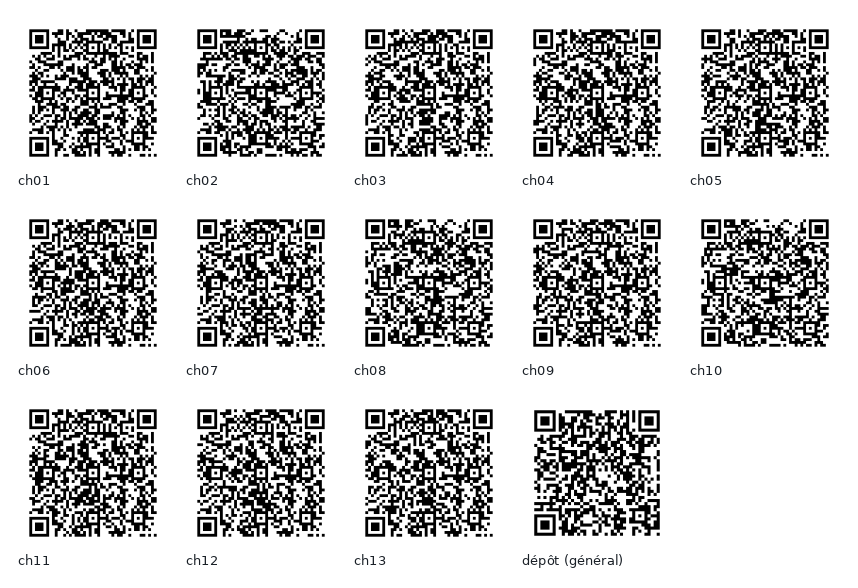
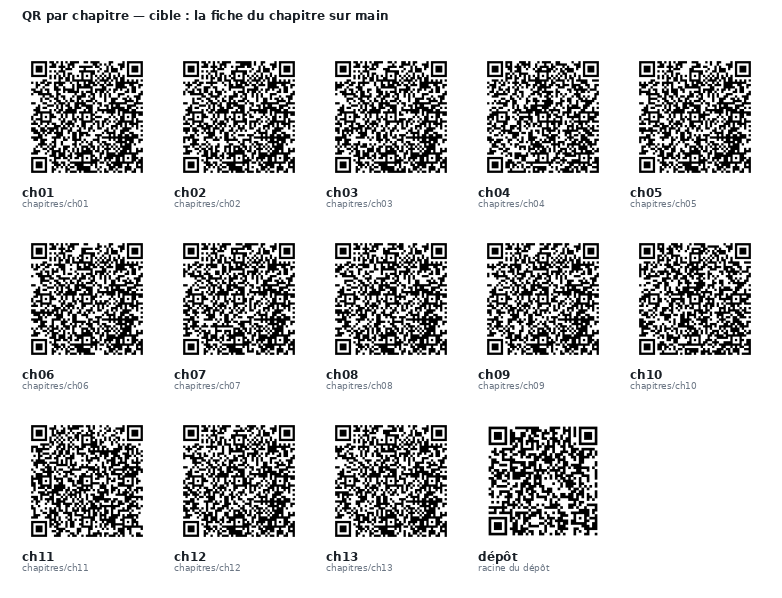
fixes

diff --git a/scripts/qr-chapitres.py b/scripts/qr-chapitres.py
@@ -71,6 +71,10 @@ def main() -> int:
     p.add_argument("--sortie", default="qr", help="repertoire de sortie")
     p.add_argument("--taille-mm", type=float, default=22.0,
                    help="taille imprimee, en millimetres (22 mm recommande)")
+    p.add_argument("--branche-index", default="main",
+                   help="branche portant les fiches de chapitre")
+    p.add_argument("--vers-branche", action="store_true",
+                   help="viser l arborescence de la branche plutot que la fiche")
     args = p.parse_args()
 
     base = f"https://github.com/{args.compte}/{args.depot}"
@@ -84,7 +88,11 @@ def main() -> int:
 
     lignes = ["| Ch. | Titre | Branche | QR |", "|---|---|---|---|"]
     for branche, titre in CHAPITRES.items():
-        url = f"{base}/tree/{branche}"
+        # La fiche du chapitre, et non l arborescence brute : elle indique ce que
+        # le chapitre ajoute, les commandes cles et les points de controle, et
+        # elle renvoie vers la branche. C est la bonne porte d entree.
+        url = (f"{base}/tree/{branche}" if args.vers_branche
+               else f"{base}/tree/{args.branche_index}/chapitres/{branche}")
         version = generer(url, sortie / f"{branche}.svg", args.taille_mm)
         print(f"{branche + '.svg':14} {version:>7}  {url}")
         lignes.append(f"| {branche[2:]} | {titre} | `{branche}` | `qr/{branche}.svg` |")
@@ -92,9 +100,11 @@ def main() -> int:
     (sortie / "INDEX.md").write_text(
         "# QR codes par chapitre\n\n"
         f"Depot : {base}\n\n"
-        "Chaque QR code pointe vers la branche du chapitre : le lecteur arrive\n"
-        "directement sur l'etat d'Escale a la fin de ce chapitre, sans avoir\n"
-        "besoin des precedents.\n\n"
+        "Chaque QR code pointe vers la **fiche du chapitre** : ce que le chapitre\n"
+        "ajoute au depot, les commandes cles, les points de controle, et un lien\n"
+        "vers la branche correspondante. Le lecteur arrive oriente, et non devant\n"
+        "une arborescence de fichiers.\n\n"
+        "Option `--vers-branche` pour viser directement l arborescence.\n\n"
         "**A placer en ouverture de chapitre**, en marge exterieure, a 22 mm de\n"
         "cote. Format SVG vectoriel : ne jamais convertir en JPEG.\n\n"
         + "\n".join(lignes) + "\n"

diff --git a/chapitres/ch01/README.md b/chapitres/ch01/README.md
@@ -29,8 +29,12 @@ docker rm -f escale && docker run -d -p 8080:8000 --name escale escale/demo:ch01
 ## Récupérer cet état
 
 ```bash
+git clone https://github.com/nkerzazi/Kubernetes-book-material.git
+cd Kubernetes-book-material
 git checkout ch01
 ```
+
+📂 **[Parcourir les fichiers de la branche `ch01`](https://github.com/nkerzazi/Kubernetes-book-material/tree/ch01)**
 
 Chaque branche est **fonctionnelle et autonome** : vous pouvez rejoindre le fil
 rouge à n'importe quel chapitre sans avoir fait les précédents.

diff --git a/chapitres/ch03/README.md b/chapitres/ch03/README.md
@@ -28,8 +28,12 @@ docker run --rm -v escale-donnees:/donnees -v "$PWD":/sauvegarde alpine tar czf 
 ## Récupérer cet état
 
 ```bash
+git clone https://github.com/nkerzazi/Kubernetes-book-material.git
+cd Kubernetes-book-material
 git checkout ch03
 ```
+
+📂 **[Parcourir les fichiers de la branche `ch03`](https://github.com/nkerzazi/Kubernetes-book-material/tree/ch03)**
 
 Chaque branche est **fonctionnelle et autonome** : vous pouvez rejoindre le fil
 rouge à n'importe quel chapitre sans avoir fait les précédents.

diff --git a/chapitres/ch07/README.md b/chapitres/ch07/README.md
@@ -29,8 +29,12 @@ kubectl get secret escale-secrets -o jsonpath='{.data.POSTGRES_PASSWORD}' | base
 ## Récupérer cet état
 
 ```bash
+git clone https://github.com/nkerzazi/Kubernetes-book-material.git
+cd Kubernetes-book-material
 git checkout ch07
 ```
+
+📂 **[Parcourir les fichiers de la branche `ch07`](https://github.com/nkerzazi/Kubernetes-book-material/tree/ch07)**
 
 Chaque branche est **fonctionnelle et autonome** : vous pouvez rejoindre le fil
 rouge à n'importe quel chapitre sans avoir fait les précédents.

diff --git a/chapitres/ch09/README.md b/chapitres/ch09/README.md
@@ -30,8 +30,12 @@ helm upgrade --install escale helm/escale -f helm/escale/values-prod.yaml --wait
 ## Récupérer cet état
 
 ```bash
+git clone https://github.com/nkerzazi/Kubernetes-book-material.git
+cd Kubernetes-book-material
 git checkout ch09
 ```
+
+📂 **[Parcourir les fichiers de la branche `ch09`](https://github.com/nkerzazi/Kubernetes-book-material/tree/ch09)**
 
 Chaque branche est **fonctionnelle et autonome** : vous pouvez rejoindre le fil
 rouge à n'importe quel chapitre sans avoir fait les précédents.

diff --git a/chapitres/ch11/README.md b/chapitres/ch11/README.md
@@ -29,8 +29,12 @@ kubectl run intrus --rm -it --image=alpine --restart=Never -- nc -zv -w3 postgre
 ## Récupérer cet état
 
 ```bash
+git clone https://github.com/nkerzazi/Kubernetes-book-material.git
+cd Kubernetes-book-material
 git checkout ch11
 ```
+
+📂 **[Parcourir les fichiers de la branche `ch11`](https://github.com/nkerzazi/Kubernetes-book-material/tree/ch11)**
 
 Chaque branche est **fonctionnelle et autonome** : vous pouvez rejoindre le fil
 rouge à n'importe quel chapitre sans avoir fait les précédents.

diff --git a/chapitres/ch13/README.md b/chapitres/ch13/README.md
@@ -27,8 +27,12 @@ helm upgrade --install escale helm/escale -f helm/escale/values-prod.yaml --wait
 ## Récupérer cet état
 
 ```bash
+git clone https://github.com/nkerzazi/Kubernetes-book-material.git
+cd Kubernetes-book-material
 git checkout ch13
 ```
+
+📂 **[Parcourir les fichiers de la branche `ch13`](https://github.com/nkerzazi/Kubernetes-book-material/tree/ch13)**
 
 Chaque branche est **fonctionnelle et autonome** : vous pouvez rejoindre le fil
 rouge à n'importe quel chapitre sans avoir fait les précédents.

diff --git a/chapitres/ch05/README.md b/chapitres/ch05/README.md
@@ -27,8 +27,12 @@ kubectl apply -f k8s/base/pod-api.yaml && kubectl get pod escale-api -w
 ## Récupérer cet état
 
 ```bash
+git clone https://github.com/nkerzazi/Kubernetes-book-material.git
+cd Kubernetes-book-material
 git checkout ch05
 ```
+
+📂 **[Parcourir les fichiers de la branche `ch05`](https://github.com/nkerzazi/Kubernetes-book-material/tree/ch05)**
 
 Chaque branche est **fonctionnelle et autonome** : vous pouvez rejoindre le fil
 rouge à n'importe quel chapitre sans avoir fait les précédents.

diff --git a/chapitres/ch12/README.md b/chapitres/ch12/README.md
@@ -29,8 +29,12 @@ kubectl rollout status deploy/escale-api --timeout=5m; echo "code=$?"
 ## Récupérer cet état
 
 ```bash
+git clone https://github.com/nkerzazi/Kubernetes-book-material.git
+cd Kubernetes-book-material
 git checkout ch12
 ```
+
+📂 **[Parcourir les fichiers de la branche `ch12`](https://github.com/nkerzazi/Kubernetes-book-material/tree/ch12)**
 
 Chaque branche est **fonctionnelle et autonome** : vous pouvez rejoindre le fil
 rouge à n'importe quel chapitre sans avoir fait les précédents.

diff --git a/chapitres/ch04/README.md b/chapitres/ch04/README.md
@@ -28,8 +28,12 @@ docker compose down   # sans -v : les volumes restent
 ## Récupérer cet état
 
 ```bash
+git clone https://github.com/nkerzazi/Kubernetes-book-material.git
+cd Kubernetes-book-material
 git checkout ch04
 ```
+
+📂 **[Parcourir les fichiers de la branche `ch04`](https://github.com/nkerzazi/Kubernetes-book-material/tree/ch04)**
 
 Chaque branche est **fonctionnelle et autonome** : vous pouvez rejoindre le fil
 rouge à n'importe quel chapitre sans avoir fait les précédents.

diff --git a/chapitres/ch10/README.md b/chapitres/ch10/README.md
@@ -28,8 +28,12 @@ kubectl set env deploy/escale-api CHAOS_ERROR_RATE-
 ## Récupérer cet état
 
 ```bash
+git clone https://github.com/nkerzazi/Kubernetes-book-material.git
+cd Kubernetes-book-material
 git checkout ch10
 ```
+
+📂 **[Parcourir les fichiers de la branche `ch10`](https://github.com/nkerzazi/Kubernetes-book-material/tree/ch10)**
 
 Chaque branche est **fonctionnelle et autonome** : vous pouvez rejoindre le fil
 rouge à n'importe quel chapitre sans avoir fait les précédents.

diff --git a/chapitres/ch06/README.md b/chapitres/ch06/README.md
@@ -28,8 +28,12 @@ kubectl rollout undo deployment/escale-api
 ## Récupérer cet état
 
 ```bash
+git clone https://github.com/nkerzazi/Kubernetes-book-material.git
+cd Kubernetes-book-material
 git checkout ch06
 ```
+
+📂 **[Parcourir les fichiers de la branche `ch06`](https://github.com/nkerzazi/Kubernetes-book-material/tree/ch06)**
 
 Chaque branche est **fonctionnelle et autonome** : vous pouvez rejoindre le fil
 rouge à n'importe quel chapitre sans avoir fait les précédents.
